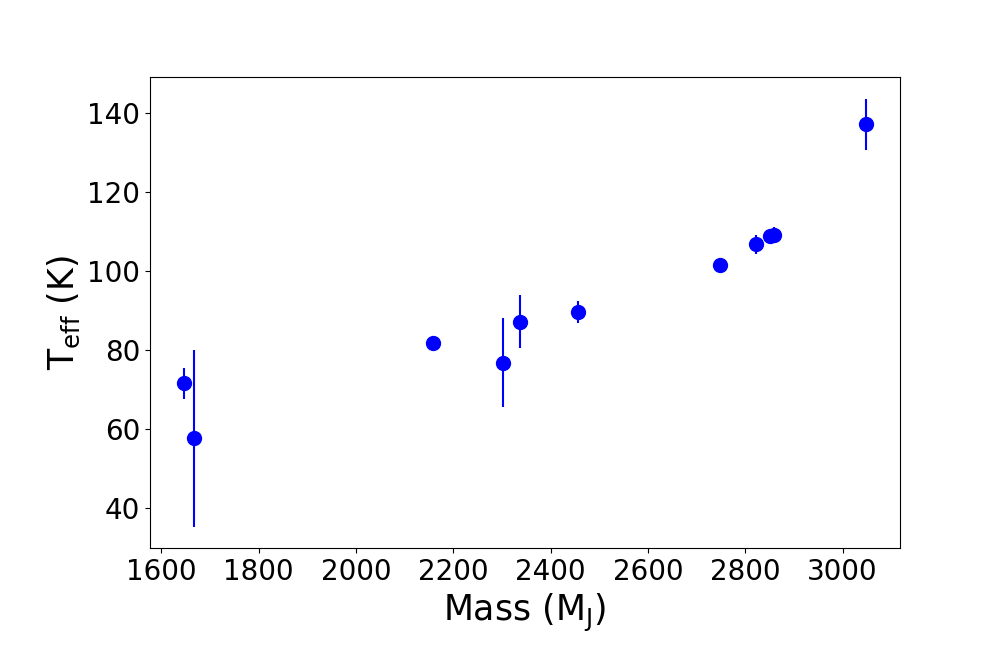
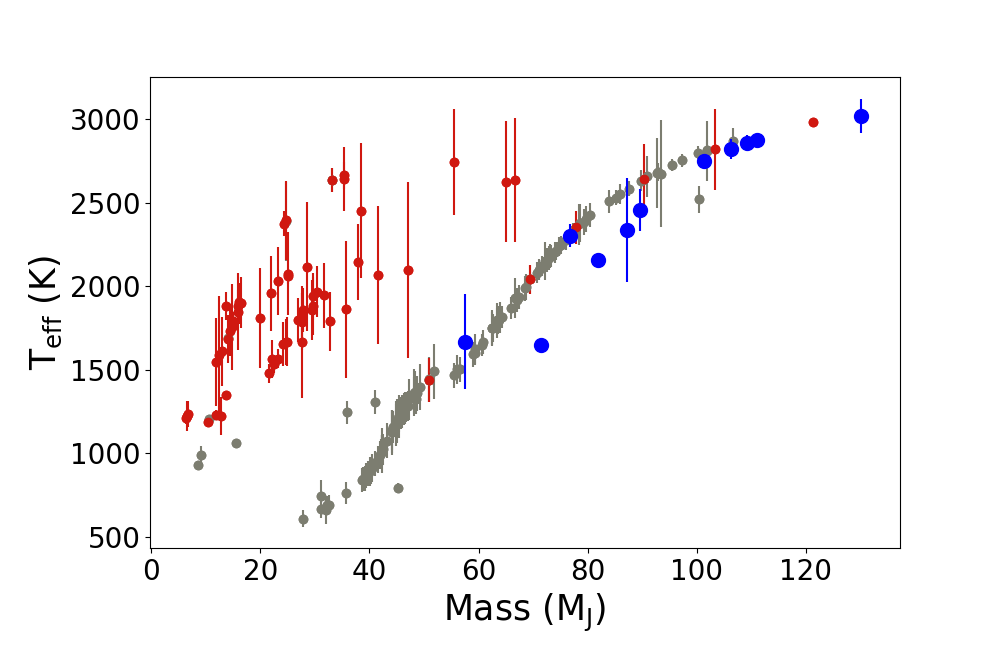
Added young and filed objects to plots

diff --git a/SptvMass.py b/SptvMass.py
@@ -1,11 +1,13 @@
 import pandas as pd
 import matplotlib.pyplot as plt
 
-df_sub = pd.read_csv('Data/Subdwarf_Spt_v_Teff.txt', sep="\s+", comment='#', header=None,
+df_sub = pd.read_csv('Data/Subdwarf_Spt_v_Teff.txt', sep=" ", comment='#', header=None,
                      names=["name", "SpT", "Teff", 'Teff_err', 'lbol', 'lbol_err', 'mass', 'mass_unc', 'MJ', 'MJ_unc',
                             'MH', 'MH_unc', 'MK', 'MK_unc', 'MW1', 'MW1_unc', 'MW2', 'MW2_unc'])
-df_young = pd.read_csv('Data/young_masses.txt', sep="\s+", comment='#', header=None, names=['name', 'spt', 'mass',
-                                                                                            'mass_unc'])
+df_young = pd.read_csv('Data/young_masses.txt', sep="\s+", comment='#', header=None,
+                       names=['name', 'spt', 'mass', 'mass_unc', 'Teff', 'Teff_unc'])
+df_field = pd.read_csv('Data/field_masses.txt', sep="\t", comment='#', header=None,
+                       names=['name', 'spt', 'mass', 'mass_unc', 'Teff', 'Teff_unc'])
 # -------------------------------------------------------------------------------------
 # ------------------------- Make Plot: Spt v mass ------------------------------------
 # -------------------------------------------------------------------------------------
@@ -24,8 +26,12 @@ plt.xlabel('Spectral Type', fontsize=25)
 plt.ylabel('Mass (M$_\mathrm{J}$)', fontsize=25)
 
 # ----- Add data -----
-plt.scatter(df_sub['SpT'], df_sub['mass'], color='blue', s=100)
-ax1.errorbar(df_sub['SpT'], df_sub['mass'], yerr=df_sub['mass_unc'], c='blue', fmt='o')
+plt.scatter(df_field['spt'], df_field['mass'], color='#7C7D70')
+ax1.errorbar(df_field['spt'], df_field['mass'], yerr=df_field['mass_unc'], c='#7C7D70', fmt='o')
+plt.scatter(df_young['spt'], df_young['mass'], color='#D01810')
+ax1.errorbar(df_young['spt'], df_young['mass'], yerr=df_young['mass_unc'], c='#D01810', fmt='o')
+plt.scatter(df_sub['SpT'], df_sub['mass'], color='blue',s=100, zorder=5)
+ax1.errorbar(df_sub['SpT'], df_sub['mass'], yerr=df_sub['mass_unc'], c='blue', fmt='o', zorder=6)
 
 plt.savefig('Plots/SptVmass.png')
 
@@ -47,7 +53,11 @@ plt.xlabel('Mass (M$_\mathrm{J}$)', fontsize=25)
 plt.ylabel('T$_\mathrm{eff}$ (K)', fontsize=25)
 
 # ----- Add data -----
-plt.scatter(df_sub['Teff'], df_sub['mass'], color='blue', s=100)
-ax1.errorbar(df_sub['Teff'], df_sub['mass'], yerr=df_sub['mass_unc'], c='blue', fmt='o')
+plt.scatter(df_field['mass'], df_field['Teff'], color='#7C7D70')
+ax1.errorbar(df_field['mass'], df_field['Teff'], yerr=df_field['Teff_unc'], c='#7C7D70', fmt='o')
+plt.scatter(df_young['mass'], df_young['Teff'], color='#D01810')
+ax1.errorbar(df_young['mass'], df_young['Teff'], yerr=df_young['Teff_unc'], c='#D01810', fmt='o')
+plt.scatter(df_sub['mass'], df_sub['Teff'], color='blue', s=100, zorder=5)
+ax1.errorbar(df_sub['mass'], df_sub['Teff'], yerr=df_sub['Teff_err'], c='blue', fmt='o', zorder=6)
 
 plt.savefig('Plots/TeffVmass.png')
